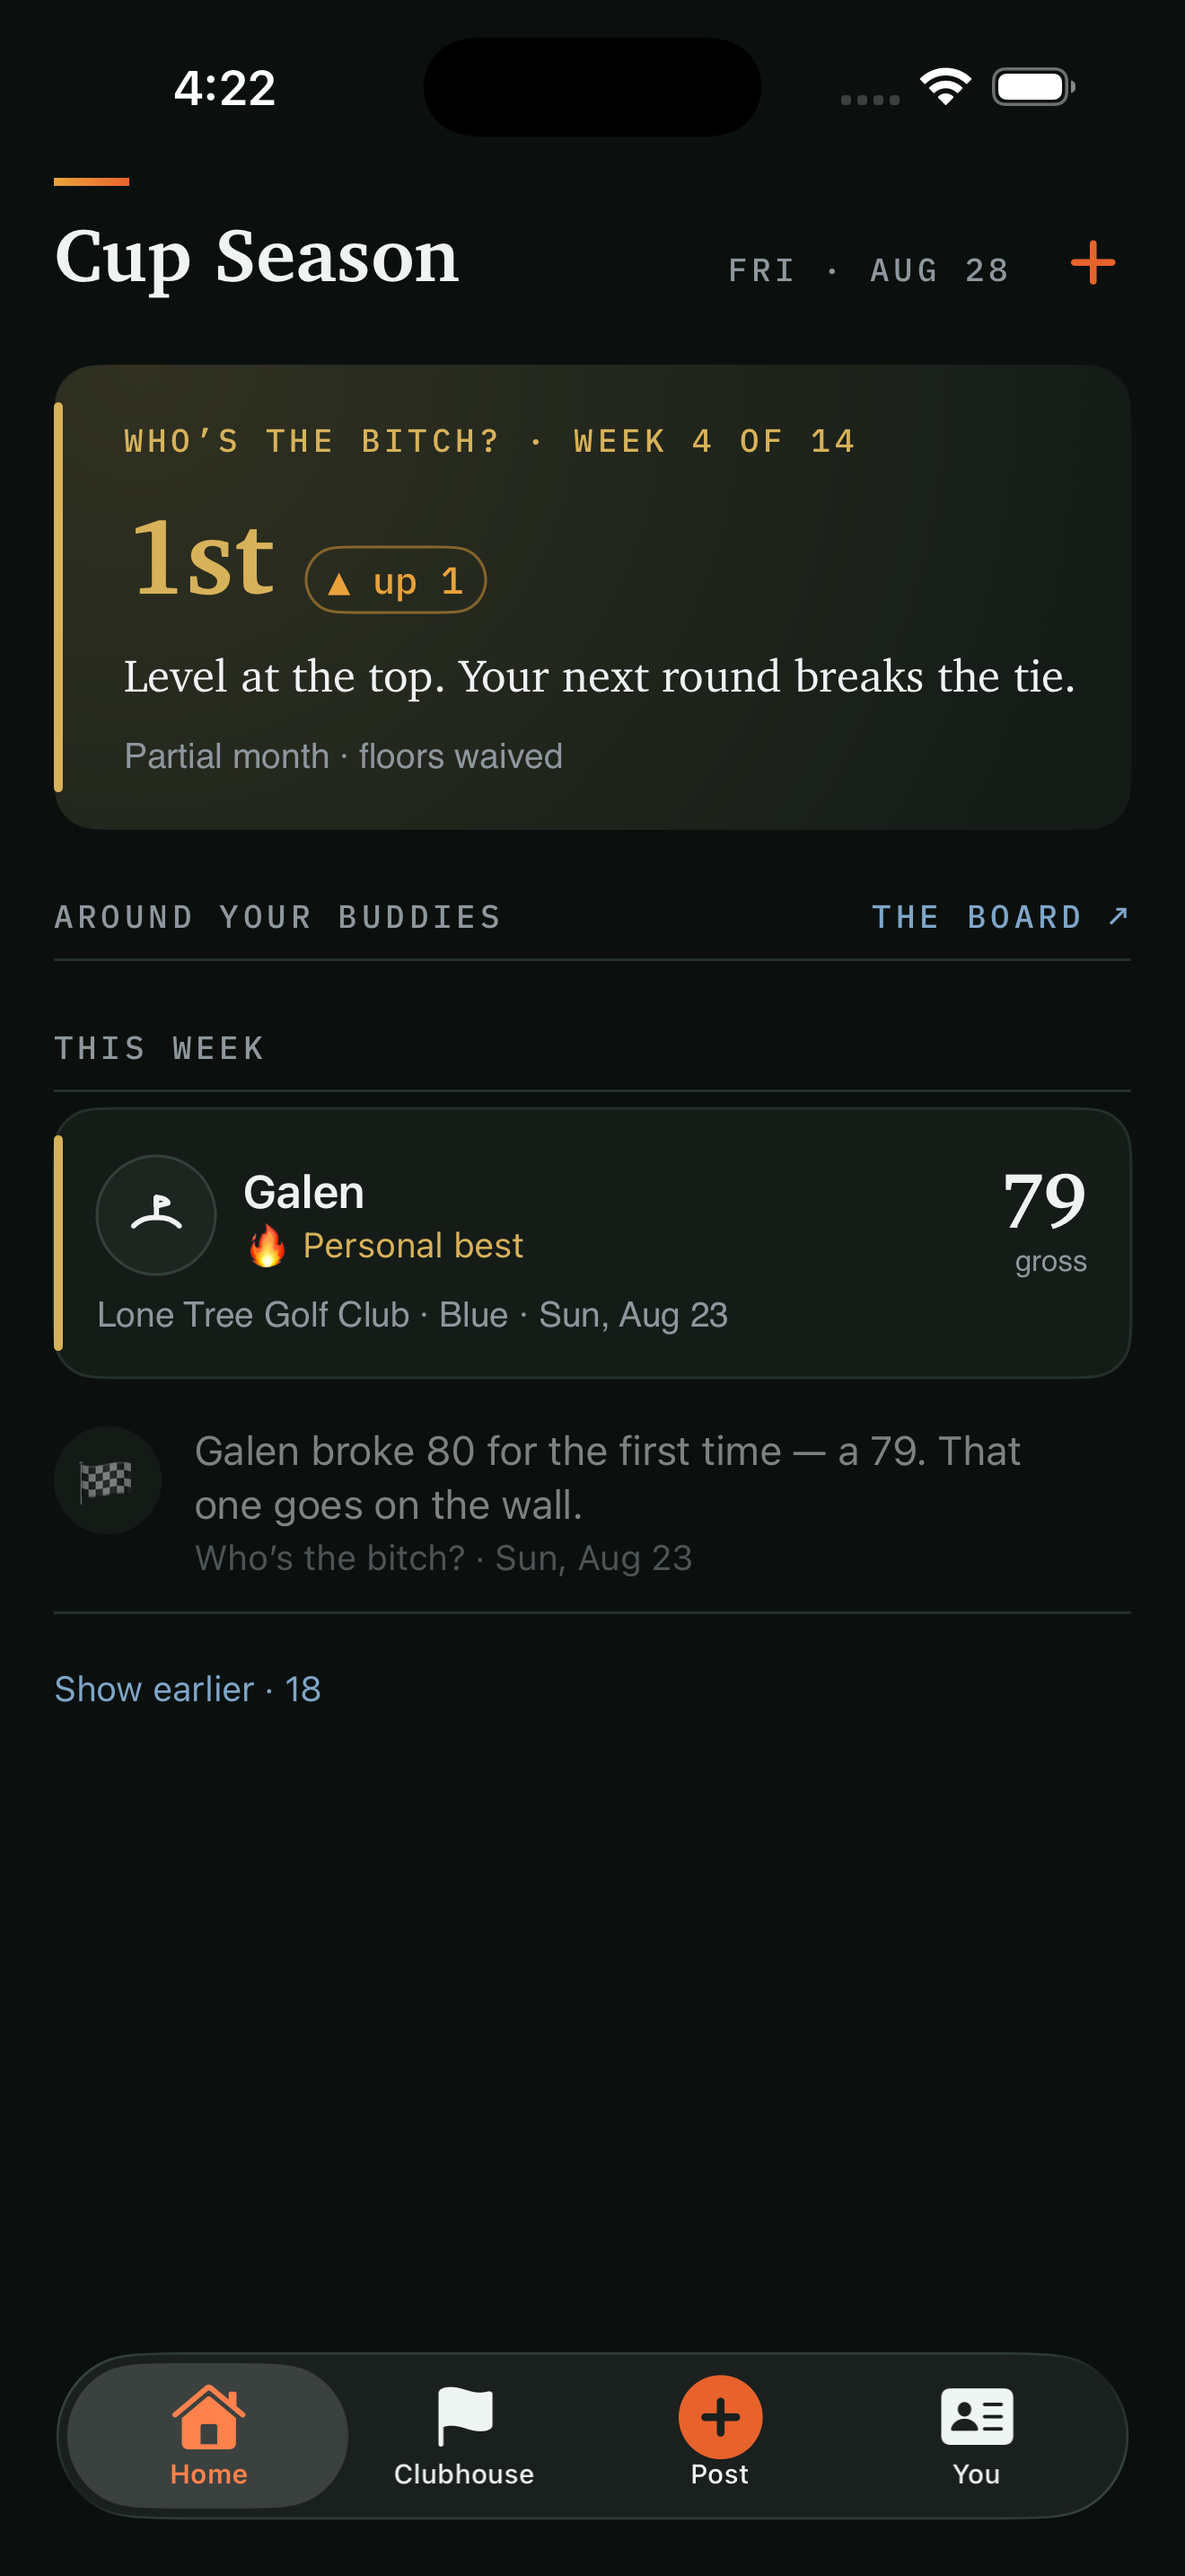
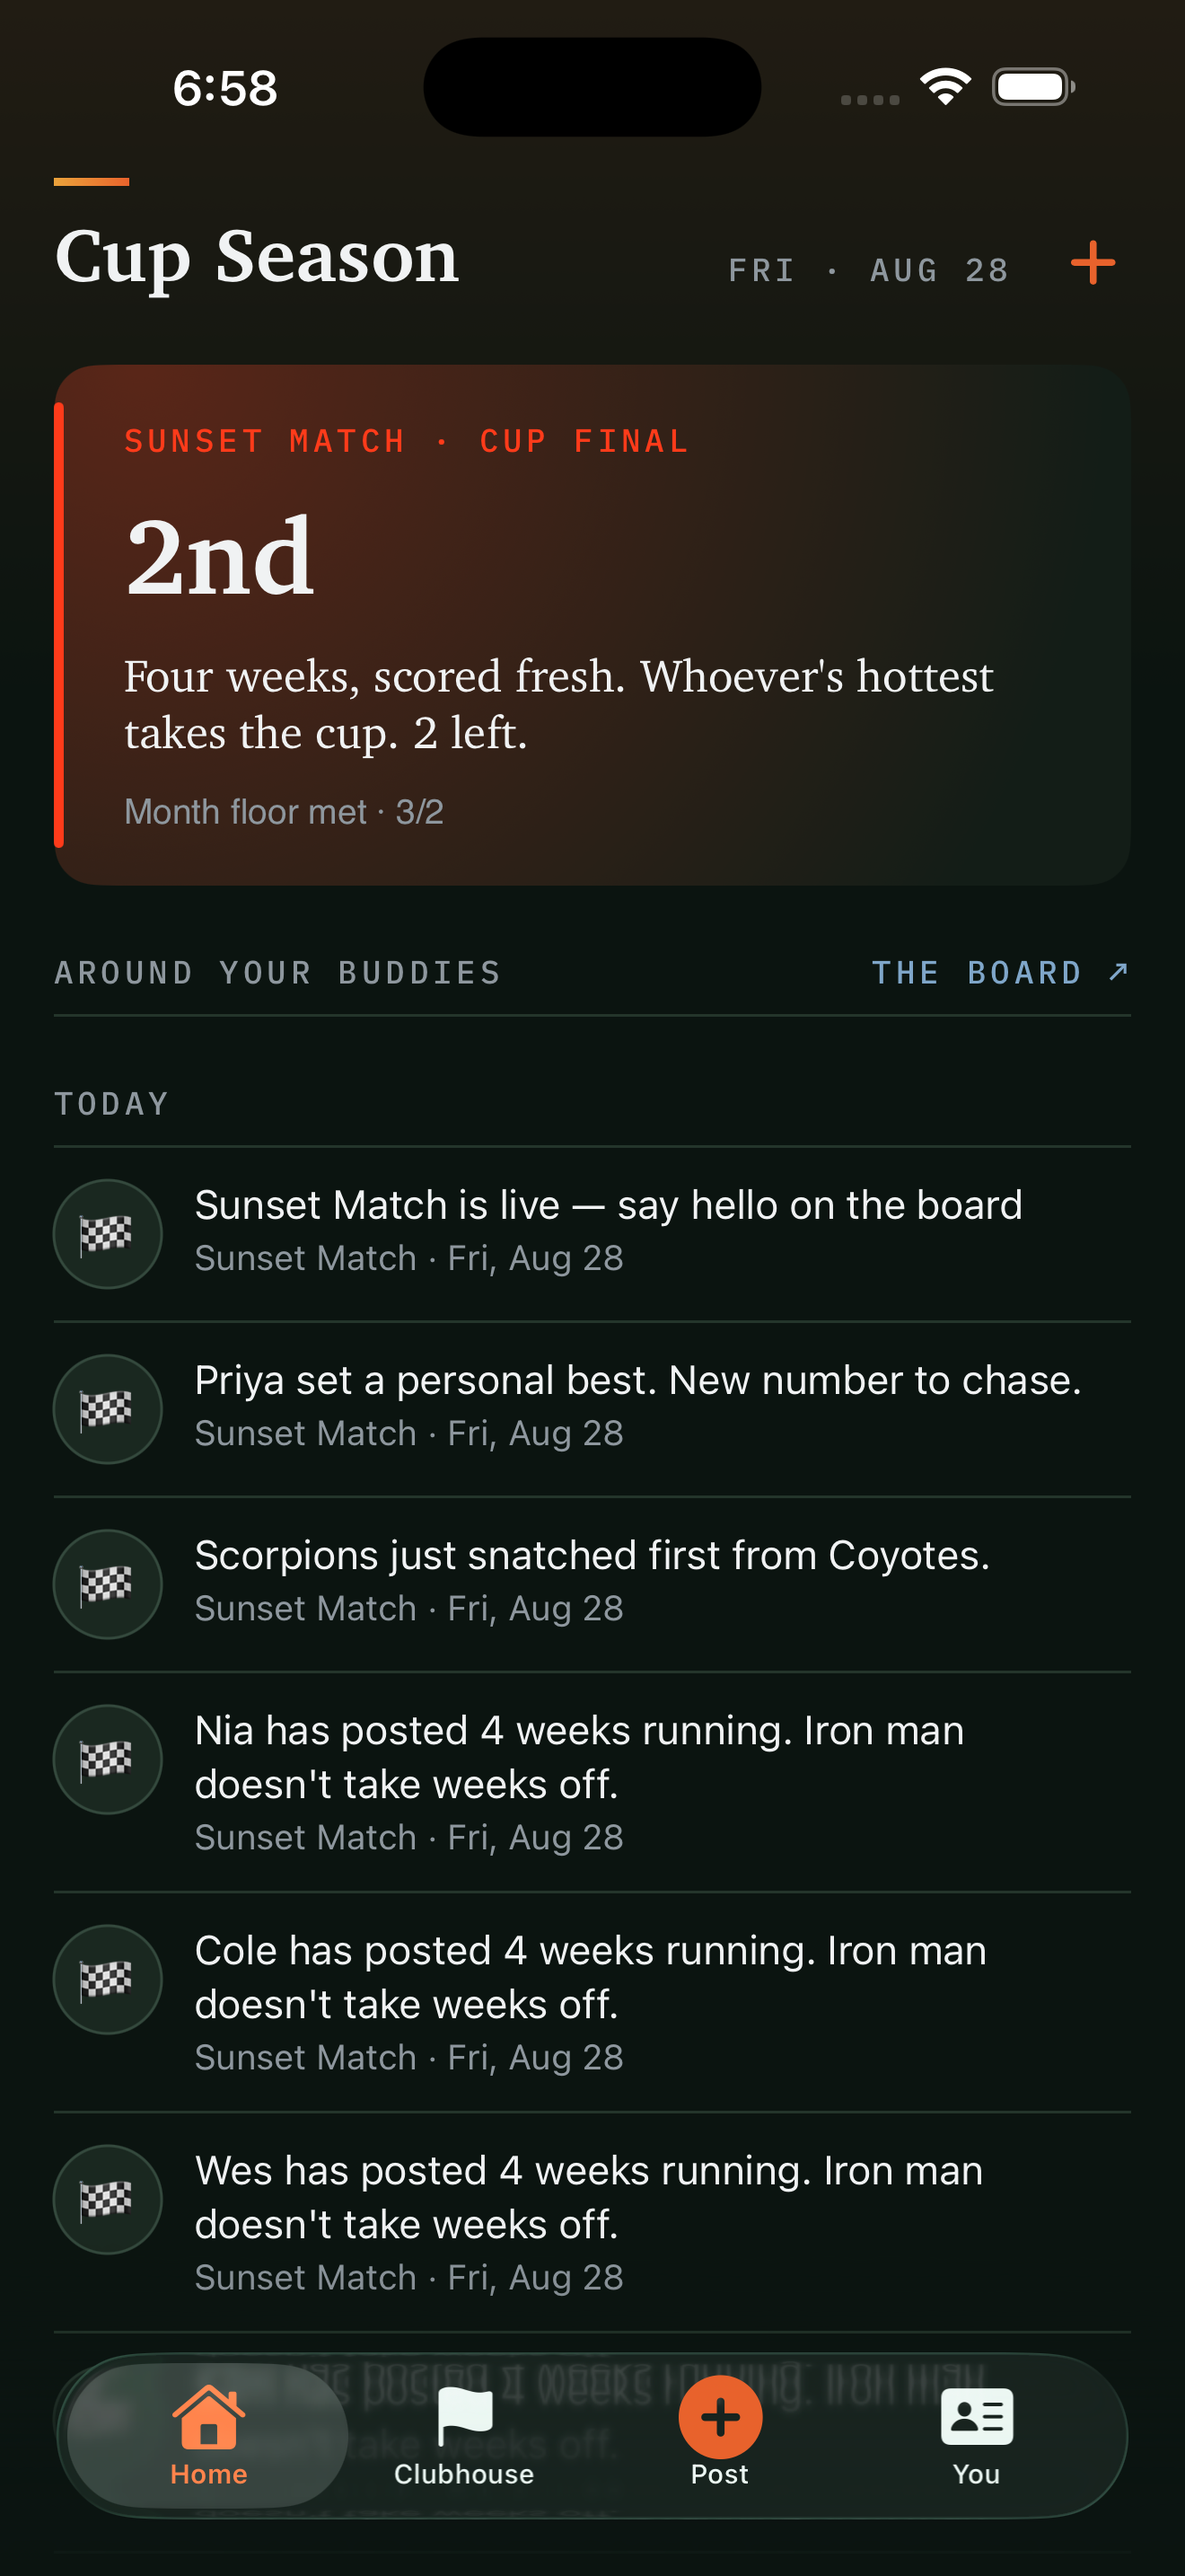
chore(release): store screenshots reshot on the reviewer's seeded sandbox (Sunset Match, Cup Final); the reviewer card step in the notes
Claude-Session: https://claude.ai/code/session_011cTpGNuLEC5A2Pqy3xXPEm

diff --git a/docs/ios/app-review-notes.md b/docs/ios/app-review-notes.md
@@ -12,6 +12,15 @@ Password: `<<REVIEWER PASSWORD>>` — the sign-in screen shows a password field
 as soon as this address is typed (every other user signs in with an emailed
 8-digit code; Sign in with Apple is also offered).
 
+**Before every submission (founder, from the terminal — the seed lasts until the next `reset`):**
+```
+# founder token via the emailed code, then:
+curl -s -X POST https://zddbfcokmvneltrgukzf.supabase.co/functions/v1/test-seed \
+  -H "apikey: <publishable key>" -H "Authorization: Bearer <founder token>" -H "Content-Type: application/json" \
+  -d '{"action":"seed","target_email":"reviewer@cupseason.app"}'
+```
+The reviewer profile's card must be set or the account lands on the card gate (done 2026-08-28: `Sam Reviewer · @reviewer · The Saguaro · Phoenix, AZ`; re-apply with `update profiles set display_name='Sam Reviewer', handle='reviewer', marker='saguaro' where email='reviewer@cupseason.app'` if it is ever cleared).
+
 The reviewer account is pre-loaded with a season in progress: a league of
 eight golfers, standings, a board with posts, a settled live game with its
 scorecard, and a Ryder-style event. Nothing in it is a real person.
